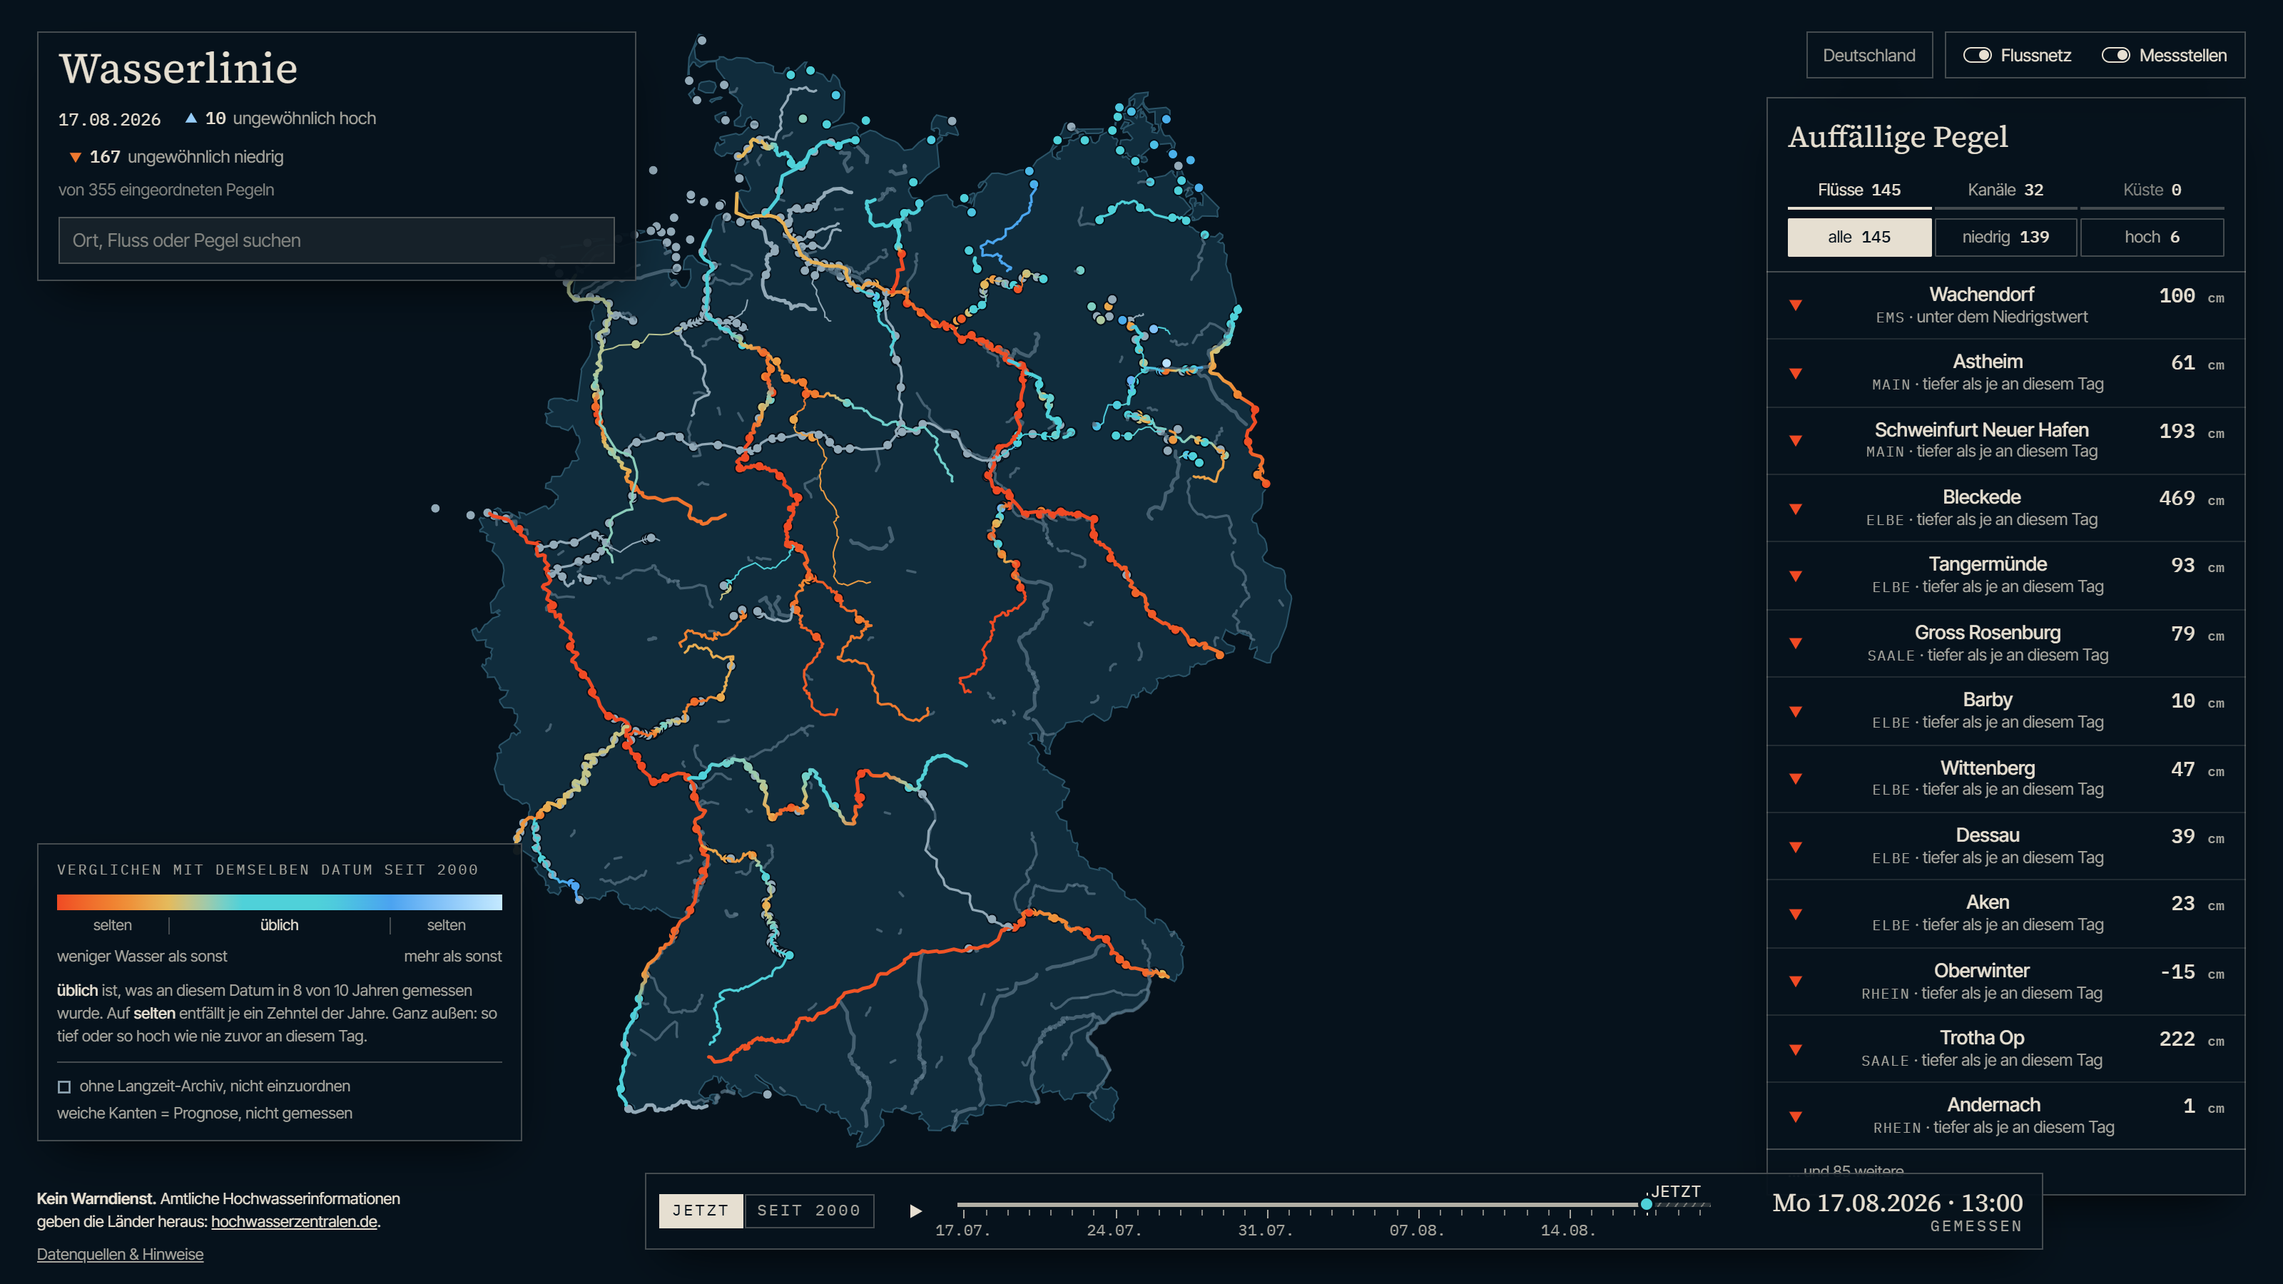
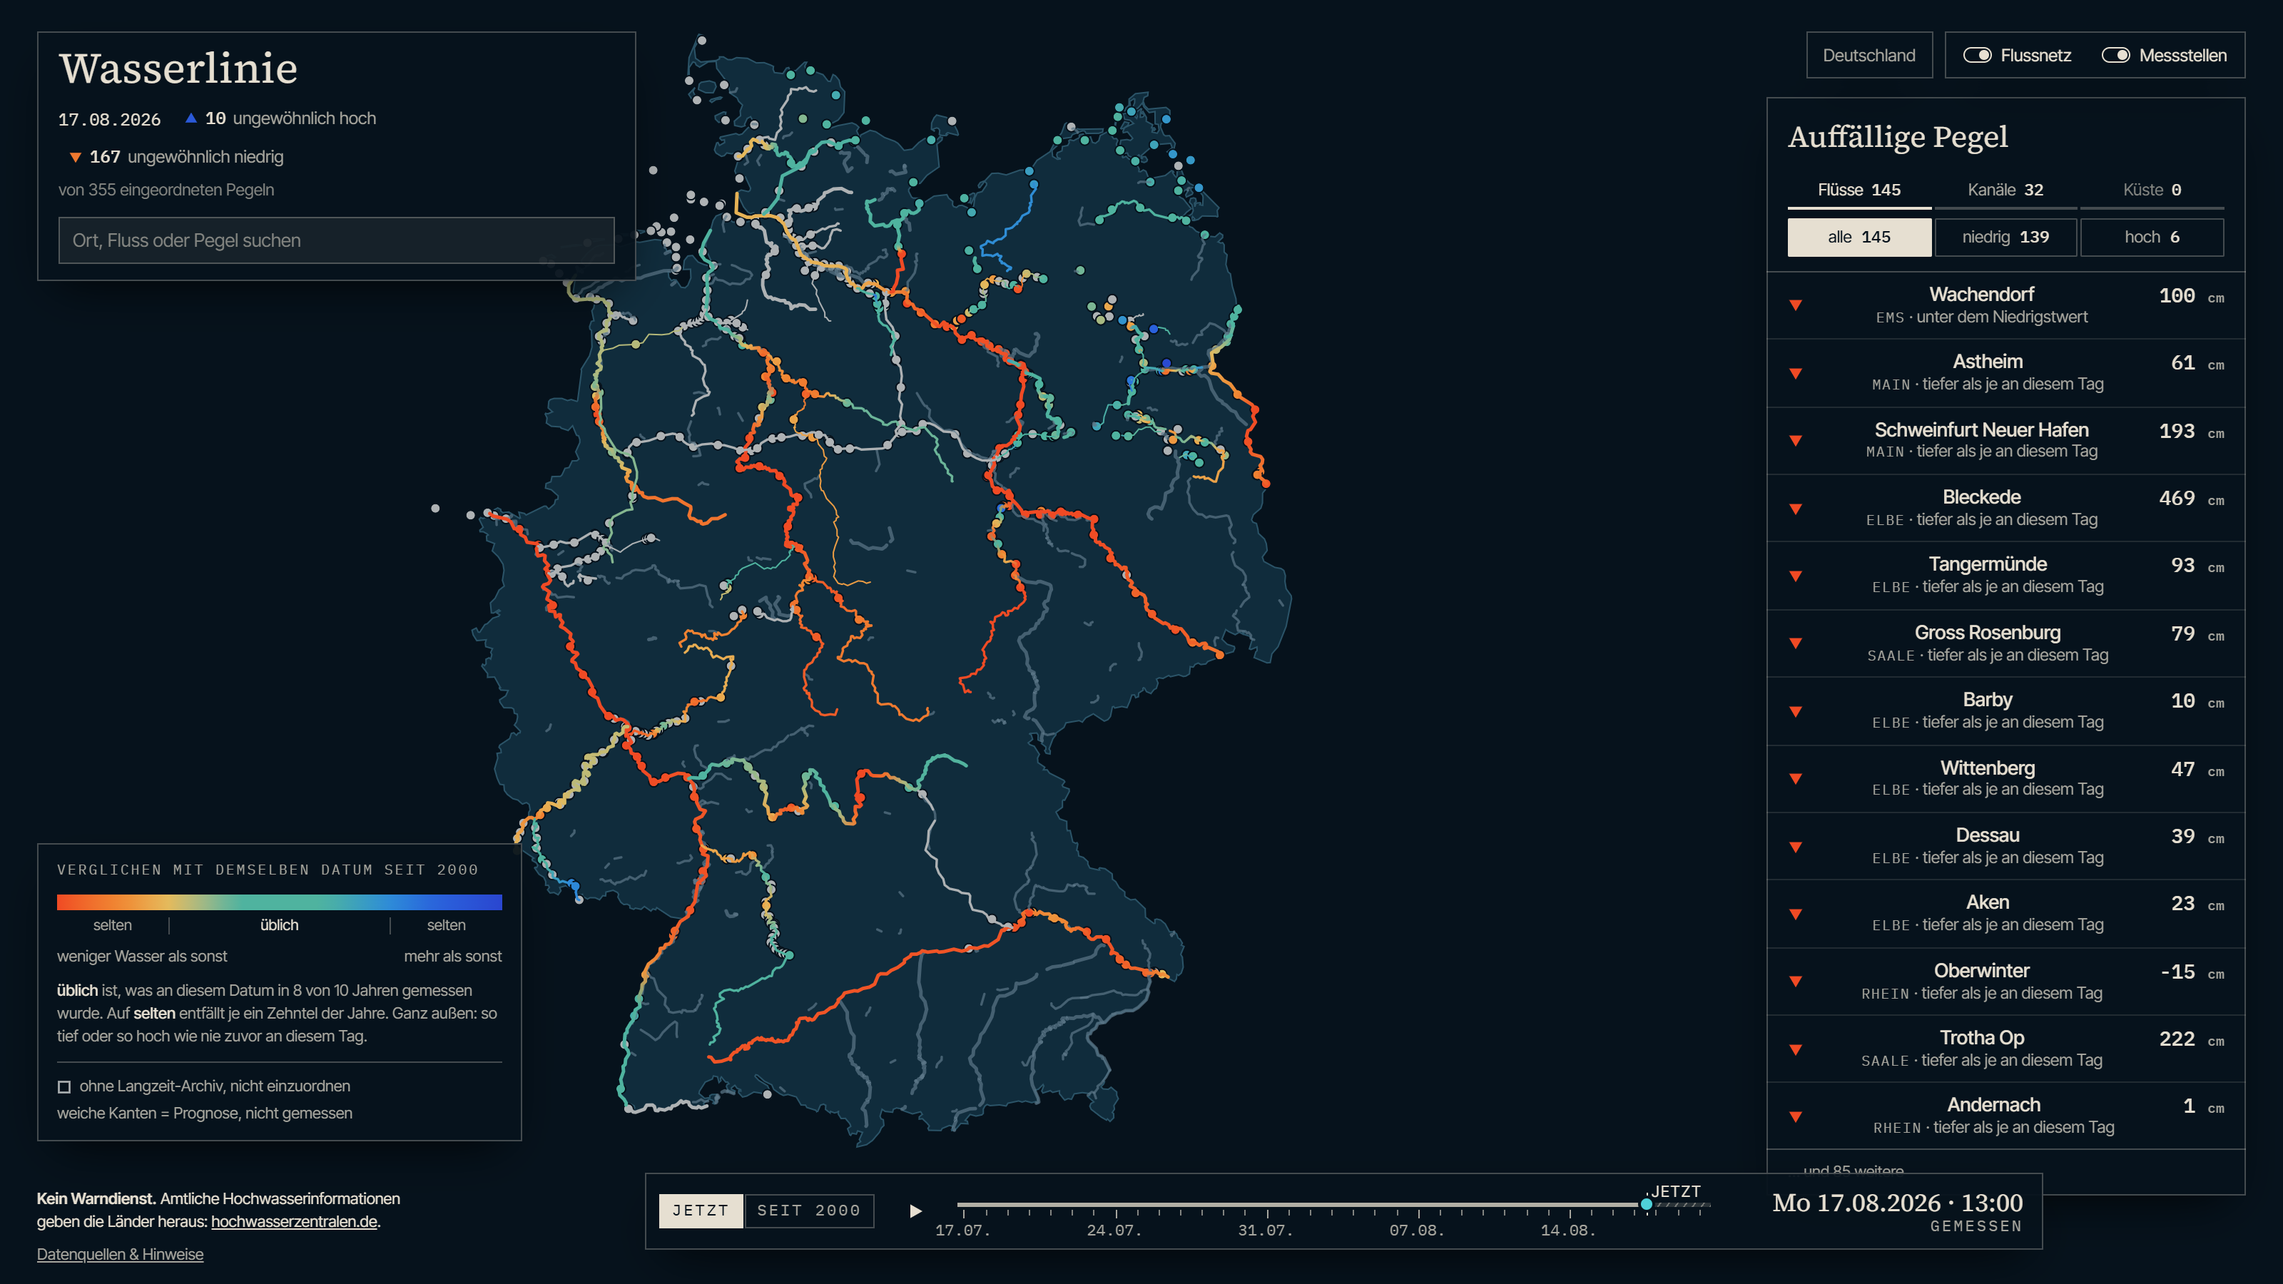
Make a rising river as easy to see as a falling one
The cool arm ran to a near-white blue, so chroma fell as the water rose: p90
and a record high both landed within dE 0.08 of normal in Oklab, against 0.35
on the warm side. "Üblich" and "selten, mehr als sonst" were one colour on
screen, and the whole wet half of the scale read as a single pale wash.

Two causes, both now fixed. The arm turns and saturates instead of fading,
and it carries three stops past p90 to match the three the dry arm has past
p10. It had two, so the outer half had half the resolution. Normal is a
muted teal-green rather than a bright cyan: it used to lean on the shader's
glow value to recede, and flat on a map there is no glow to lean on.

Normal against the wet side, in Oklab: p90 0.14 -> 0.17, +0.75 0.08 -> 0.28,
record 0.14 -> 0.33. Tests now assert the property rather than the colours,
so this cannot quietly come back.

The grey for "no verdict" loses its blue cast for the same reason: with the
cool arm blue all the way down, a blue-grey read as slightly high.

Also drops glow and speed from the ramp, and the texture builder that fed
them to the shader. Nothing has read either since the map went flat.

diff --git a/src/color/ramp.test.ts b/src/color/ramp.test.ts
@@ -1,73 +1,91 @@
 import { describe, expect, it } from 'vitest'
-import { anomalyRamp, unknownColor } from '../tokens'
-import { RAMP_MAX, RAMP_MIN, RAMP_WIDTH, rampCss, rampGradientCss, rampPixels, sampleRamp } from './ramp'
+import { anomalyRamp, hexToRgb, unknownColor } from '../tokens'
+import { rgbToOklab } from './oklab'
+import { RAMP_MAX, RAMP_MIN, rampCss, rampGradientCss, sampleRamp } from './ramp'
 
-describe('anomaly ramp', () => {
-  it('returns each stop colour at its own state', () => {
+const dE = (a: [number, number, number], b: [number, number, number]): number => {
+  const x = rgbToOklab(a)
+  const y = rgbToOklab(b)
+  return Math.hypot(x[0] - y[0], x[1] - y[1], x[2] - y[2])
+}
+const chroma = (c: [number, number, number]): number => {
+  const [, a, b] = rgbToOklab(c)
+  return Math.hypot(a, b)
+}
+
+describe('sampleRamp', () => {
+  it('returns each stop at its own state', () => {
+    // Rounded, because that is the form the map and the legend both use: the
+    // Oklab round-trip lands a fraction of a channel away from the hex.
     for (const stop of anomalyRamp) {
-      const { rgb } = sampleRamp(stop.state)
-      const hex = '#' + rgb.map((c) => Math.round(c).toString(16).padStart(2, '0')).join('')
-      expect(hex.toUpperCase()).toBe(stop.color.toUpperCase())
+      expect(sampleRamp(stop.state).map(Math.round)).toEqual(hexToRgb(stop.color))
     }
   })
 
-  it('keeps the normal band a single calm colour', () => {
-    const left = sampleRamp(-0.2)
-    const right = sampleRamp(0.2)
-    expect(left.rgb).toEqual(right.rgb)
-    expect(sampleRamp(0).rgb).toEqual(left.rgb)
+  it('holds one colour across the normal band', () => {
+    expect(sampleRamp(0)).toEqual(sampleRamp(-0.2))
+    expect(sampleRamp(0)).toEqual(sampleRamp(0.2))
   })
 
-  it('clamps beyond the ends instead of extrapolating a colour', () => {
-    expect(sampleRamp(-5).rgb).toEqual(sampleRamp(RAMP_MIN).rgb)
-    expect(sampleRamp(5).rgb).toEqual(sampleRamp(RAMP_MAX).rgb)
-  })
-
-  it('says grey when there is no state at all', () => {
-    expect(rampCss(null)).toBe(unknownColor)
-    expect(rampCss(NaN)).toBe(unknownColor)
+  it('clamps beyond the ends rather than extrapolating', () => {
+    expect(sampleRamp(-5)).toEqual(sampleRamp(RAMP_MIN))
+    expect(sampleRamp(5)).toEqual(sampleRamp(RAMP_MAX))
   })
 })
 
-describe('ramp texture', () => {
-  it('puts the colour where the shader looks for it', () => {
-    // Textures upload bottom-up: the shader reads colour at v=0.25, which is
-    // the second row here. Swapping the rows paints a drought flood-red.
-    const px = rampPixels()
-    const dry = sampleRamp(RAMP_MIN)
-    const colour = RAMP_WIDTH * 4
-    expect([px[colour], px[colour + 1], px[colour + 2]]).toEqual(dry.rgb.map(Math.round))
-    expect(px[0]).toBe(Math.round(dry.glow * 255))
-    const wet = sampleRamp(RAMP_MAX)
-    const last = (RAMP_WIDTH * 2 - 1) * 4
-    expect([px[last], px[last + 1], px[last + 2]]).toEqual(wet.rgb.map(Math.round))
+// The map has no glow and no second channel, so these are the properties that
+// decide whether it can be read at all. A near-white wet end once put p90
+// within dE 0.08 of normal, which made "üblich" and "selten, mehr als sonst"
+// one colour on screen.
+describe('readability', () => {
+  it('keeps every unusual level clearly apart from normal', () => {
+    const normal = sampleRamp(0)
+    for (const state of [-1, -0.75, -0.5, 0.5, 0.75, 1]) {
+      expect(dE(sampleRamp(state), normal)).toBeGreaterThan(0.15)
+    }
+  })
+
+  it('treats the two directions alike', () => {
+    // Neither arm may be more than half again as visible as the other.
+    for (const s of [0.5, 0.75, 1]) {
+      const dry = dE(sampleRamp(-s), sampleRamp(0))
+      const wet = dE(sampleRamp(s), sampleRamp(0))
+      expect(Math.max(dry, wet) / Math.min(dry, wet)).toBeLessThan(1.5)
+    }
+  })
+
+  it('saturates outward from the normal band, so a quiet country recedes', () => {
+    for (const arm of [-1, 1]) {
+      const along = [0.2, 0.5, 0.75, 1].map((s) => chroma(sampleRamp(arm * s)))
+      for (let i = 1; i < along.length; i++) expect(along[i]!).toBeGreaterThan(along[i - 1]!)
+    }
+  })
+
+  it('separates the far end of each arm from the level that only just counts', () => {
+    expect(dE(sampleRamp(1), sampleRamp(0.5))).toBeGreaterThan(0.15)
+    expect(dE(sampleRamp(-1), sampleRamp(-0.5))).toBeGreaterThan(0.15)
+  })
+
+  it('keeps "no verdict" out of the ramp', () => {
+    // Grey must not read as a level, in either direction.
+    for (const state of [-1, -0.5, 0, 0.5, 1]) {
+      expect(dE(sampleRamp(state), hexToRgb(unknownColor))).toBeGreaterThan(0.1)
+    }
   })
 })
 
-describe('ramp semantics', () => {
-  it('is warm when dry and cool when wet', () => {
-    const dry = sampleRamp(-1)
-    const wet = sampleRamp(1)
-    expect(dry.rgb[0]).toBeGreaterThan(dry.rgb[2]) // red beats blue
-    expect(wet.rgb[2]).toBeGreaterThan(wet.rgb[0]) // blue beats red
-  })
-
-  it('is dimmest at normal and brightest at both extremes', () => {
-    const normal = sampleRamp(0).glow
-    expect(sampleRamp(-1).glow).toBeGreaterThan(normal)
-    expect(sampleRamp(1).glow).toBeGreaterThan(normal)
-    // A record low must not be drawn fainter than a record high.
-    expect(sampleRamp(-1).glow).toBeCloseTo(sampleRamp(1).glow, 5)
-  })
-
-  it('still runs slow when dry and fast when full', () => {
-    expect(sampleRamp(-1).speed).toBeLessThan(sampleRamp(0).speed)
-    expect(sampleRamp(1).speed).toBeGreaterThan(sampleRamp(0).speed)
-  })
-
-  it('gives the legend the same colours as the map', () => {
+describe('rampGradientCss', () => {
+  it('runs from the dry end to the wet end', () => {
     const css = rampGradientCss(4)
-    const mid = sampleRamp(0).rgb.map(Math.round).join(',')
-    expect(css).toContain(`rgb(${mid}) 50.0%`)
+    expect(css.startsWith('linear-gradient(90deg,')).toBe(true)
+    expect(css).toContain(rampCss(RAMP_MIN).replace('rgb(', 'rgb(').replace(/\s/g, ''))
+    expect(css).toContain('100.0%')
+  })
+})
+
+describe('rampCss', () => {
+  it('says grey when there is nothing to say', () => {
+    expect(rampCss(null)).toBe(unknownColor)
+    expect(rampCss(Number.NaN)).toBe(unknownColor)
   })
 })

diff --git a/src/color/ramp.ts b/src/color/ramp.ts
@@ -1,46 +1,39 @@
 import { anomalyRamp, hexToRgb, unknownColor } from '../tokens'
 import { mixOklab } from './oklab'
 
-// The ramp lives in tokens.ts as data. Here it becomes two things: a texture
-// the shader samples, and a plain function the UI and the gauge layer use, so
-// a river and its gauge can never disagree about what a colour means.
+// The ramp lives in tokens.ts as data. Here it becomes one function, which the
+// river layer, the gauge layer and the legend all call, so a river, its gauge
+// and the key underneath can never disagree about what a colour means.
+//
+// It used to build a 256x2 texture as well, carrying glow and flow speed in a
+// second row for the shader. Flat on a map there is no shader and no second
+// channel: everything the ramp says, it says in colour.
 
 export const RAMP_MIN = anomalyRamp[0].state
 export const RAMP_MAX = anomalyRamp[anomalyRamp.length - 1]!.state
-const WIDTH = 256
-
-export interface RampSample {
-  rgb: [number, number, number]
-  glow: number
-  speed: number
-}
 
 const stops = anomalyRamp.map((s) => ({ ...s, rgb: hexToRgb(s.color) }))
 
-export function sampleRamp(state: number): RampSample {
+export function sampleRamp(state: number): [number, number, number] {
   const s = Math.min(RAMP_MAX, Math.max(RAMP_MIN, state))
   let i = 0
   while (i < stops.length - 2 && stops[i + 1]!.state < s) i++
   const a = stops[i]!
   const b = stops[i + 1]!
   const t = b.state === a.state ? 0 : (s - a.state) / (b.state - a.state)
-  return {
-    rgb: mixOklab(a.rgb, b.rgb, t),
-    glow: a.glow + (b.glow - a.glow) * t,
-    speed: a.speed + (b.speed - a.speed) * t,
-  }
+  return mixOklab(a.rgb, b.rgb, t)
 }
 
 /**
  * The legend has to show the ramp the map actually uses. A CSS gradient would
  * interpolate in sRGB and drift away from the Oklab one, so the stops are
- * sampled from the same function the shader texture is built from.
+ * sampled from the same function the map is painted from.
  */
 export function rampGradientCss(steps = 24): string {
   const parts: string[] = []
   for (let i = 0; i <= steps; i++) {
     const f = i / steps
-    const { rgb } = sampleRamp(RAMP_MIN + f * (RAMP_MAX - RAMP_MIN))
+    const rgb = sampleRamp(RAMP_MIN + f * (RAMP_MAX - RAMP_MIN))
     parts.push(`rgb(${rgb.map(Math.round).join(',')}) ${(f * 100).toFixed(1)}%`)
   }
   return `linear-gradient(90deg, ${parts.join(', ')})`
@@ -48,45 +41,5 @@ export function rampGradientCss(steps = 24): string {
 
 export function rampCss(state: number | null): string {
   if (state === null || Number.isNaN(state)) return unknownColor
-  const { rgb } = sampleRamp(state)
-  return `rgb(${rgb.map(Math.round).join(',')})`
-}
-
-/**
- * Two rows: the colour, and glow in red with speed in green.
- *
- * Textures are uploaded bottom-up, so the colour goes in the *last* canvas row
- * to arrive at v = 0.25 in the shader, and the dynamics in the first to arrive
- * at v = 0.75. Getting this backwards silently swaps colour and glow, which
- * paints a record low in the colour of a record high.
- */
-export const RAMP_WIDTH = WIDTH
-
-export function rampPixels(): Uint8ClampedArray {
-  const out = new Uint8ClampedArray(WIDTH * 2 * 4)
-  for (let x = 0; x < WIDTH; x++) {
-    const { rgb, glow, speed } = sampleRamp(RAMP_MIN + (x / (WIDTH - 1)) * (RAMP_MAX - RAMP_MIN))
-    const dynamics = x * 4
-    out[dynamics] = Math.round(glow * 255)
-    out[dynamics + 1] = Math.round((speed / 2.5) * 255)
-    out[dynamics + 2] = 0
-    out[dynamics + 3] = 255
-    const colour = (WIDTH + x) * 4
-    out[colour] = rgb[0]
-    out[colour + 1] = rgb[1]
-    out[colour + 2] = rgb[2]
-    out[colour + 3] = 255
-  }
-  return out
-}
-
-export function rampTexture(): HTMLCanvasElement {
-  const canvas = document.createElement('canvas')
-  canvas.width = WIDTH
-  canvas.height = 2
-  const ctx = canvas.getContext('2d')!
-  const img = ctx.createImageData(WIDTH, 2)
-  img.data.set(rampPixels())
-  ctx.putImageData(img, 0, 0)
-  return canvas
+  return `rgb(${sampleRamp(state).map(Math.round).join(',')})`
 }

diff --git a/src/tokens.ts b/src/tokens.ts
@@ -14,38 +14,50 @@ export const color = {
 export type ColorName = keyof typeof color
 
 // How a gauge's state is coloured. State is a position on the gauge's own
-// named levels: -1 its record low, -0.5 mean low water, 0 mean water,
-// +0.5 mean high water, +1 its record high.
+// scale: -1 its record low, -0.5 p10, 0 normal, +0.5 p90, +1 its record high.
 //
-// Three properties are carried separately so none of them can be misread:
+// Colour is the only channel left. The 3D build carried "how unusual" in a
+// separate glow value the shader multiplied in, and the middle of the ramp
+// could afford to be a bright cyan because glow made it recede anyway. Flat on
+// a map there is no glow, so unusualness has to live in the colour itself:
 //
-//   hue    which way. Warm means the water is leaving — sand, then amber, then
-//          the scorched red of a record low. Cool means it is rising, up to a
-//          near-white blue. Nothing warm can ever mean flood.
-//   glow   how unusual, in both directions. Normal is the dimmest point on the
-//          ramp, so a quiet country recedes and any departure lights up. An
-//          earlier version tied glow to the amount of water, which drew record
-//          lows dimmest of all — precisely the thing you want to see.
-//   speed  how much water there is: dry rivers crawl, full ones run.
+//   hue     which way. Warm means the water is leaving — sand, then amber,
+//           then the scorched red of a record low. Cool means it is rising.
+//           Nothing warm can ever mean flood.
+//   chroma  how unusual. It climbs from the middle outward on both arms, so a
+//           quiet country stays muted and any departure saturates.
 //
-// Stops are interpolated in Oklab (see layers/ramp.ts), so the way from amber
-// to turquoise stays clean instead of sinking through grey.
+// The wet arm used to run to a near-white blue, which sent chroma *down* as
+// the water got higher — p90 and a record high came out within dE 0.08 of
+// normal in Oklab, close enough to be one colour. It now darkens and saturates
+// instead, and carries three stops beyond p90 to match the three the dry arm
+// has beyond p10. Symmetry is the point: the two directions must be equally
+// easy to see.
+//
+// Stops are interpolated in Oklab (see color/ramp.ts), so the way from amber
+// to teal stays clean instead of sinking through grey.
 export const anomalyRamp = [
-  { state: -1.0, color: '#F04A24', glow: 1.0, speed: 0.25 },
-  { state: -0.7, color: '#EF8B34', glow: 0.82, speed: 0.4 },
-  { state: -0.5, color: '#E4BA5C', glow: 0.68, speed: 0.55 },
-  { state: -0.2, color: '#4FD1D9', glow: 0.5, speed: 0.85 },
-  { state: 0.2, color: '#4FD1D9', glow: 0.5, speed: 1.05 },
-  { state: 0.5, color: '#4BA3F0', glow: 0.78, speed: 1.5 },
-  { state: 1.0, color: '#C4E9FF', glow: 1.0, speed: 2.2 },
+  { state: -1.0, color: '#F04A24' },
+  { state: -0.7, color: '#EF8B34' },
+  { state: -0.5, color: '#E4BA5C' },
+  { state: -0.2, color: '#4FB39F' },
+  { state: 0.2, color: '#4FB39F' },
+  { state: 0.5, color: '#2E8AD8' },
+  { state: 0.7, color: '#2A62DC' },
+  { state: 1.0, color: '#2A46D0' },
 ] as const
 
 /**
- * Rivers and gauges we cannot judge. It has to sit clearly *above* the terrain
- * in brightness — a grey darker than the ground turns the unmeasured network
- * into dark cracks instead of quiet water.
+ * Rivers and gauges we cannot judge.
+ *
+ * Neutral on purpose, and brighter than the land. It used to carry a blue
+ * cast, which was harmless while the ramp's cool arm ended near white — now
+ * that the arm is blue all the way, any blue in this grey reads as "slightly
+ * high" rather than "no verdict". A grey darker than the ground would be worse
+ * still: it turns the unmeasured network into dark cracks instead of quiet
+ * water.
  */
-export const unknownColor = '#93AAB8'
+export const unknownColor = '#AEB2B4'
 
 /** Beyond these the level counts as worth pointing at. */
 export const unusual = { low: -0.5, high: 0.5 } as const

diff --git a/README.md b/README.md
@@ -7,8 +7,9 @@ Germany's river network as a living map, coloured by how unusual the water is
 against that gauge's own mean low water, mean water and record levels tells
 you at a glance whether a river is running dry. Warm means the water is
 leaving — sand, amber, then the red of a record low. Cool means it is rising.
-Normal is the dimmest point on the scale, so a quiet country recedes and
-anything unusual lights up, in either direction. Drag the time slider and the whole network moves with it;
+Normal is the least saturated point on the scale, so a quiet country recedes
+and anything unusual saturates, in either direction and by the same amount.
+Drag the time slider and the whole network moves with it;
 push past "now" and it becomes a forecast, visibly softer the further it goes.
 
 [![CI](https://github.com/Naxter/wasserlinie/actions/workflows/ci.yml/badge.svg)](https://github.com/Naxter/wasserlinie/actions/workflows/ci.yml)
